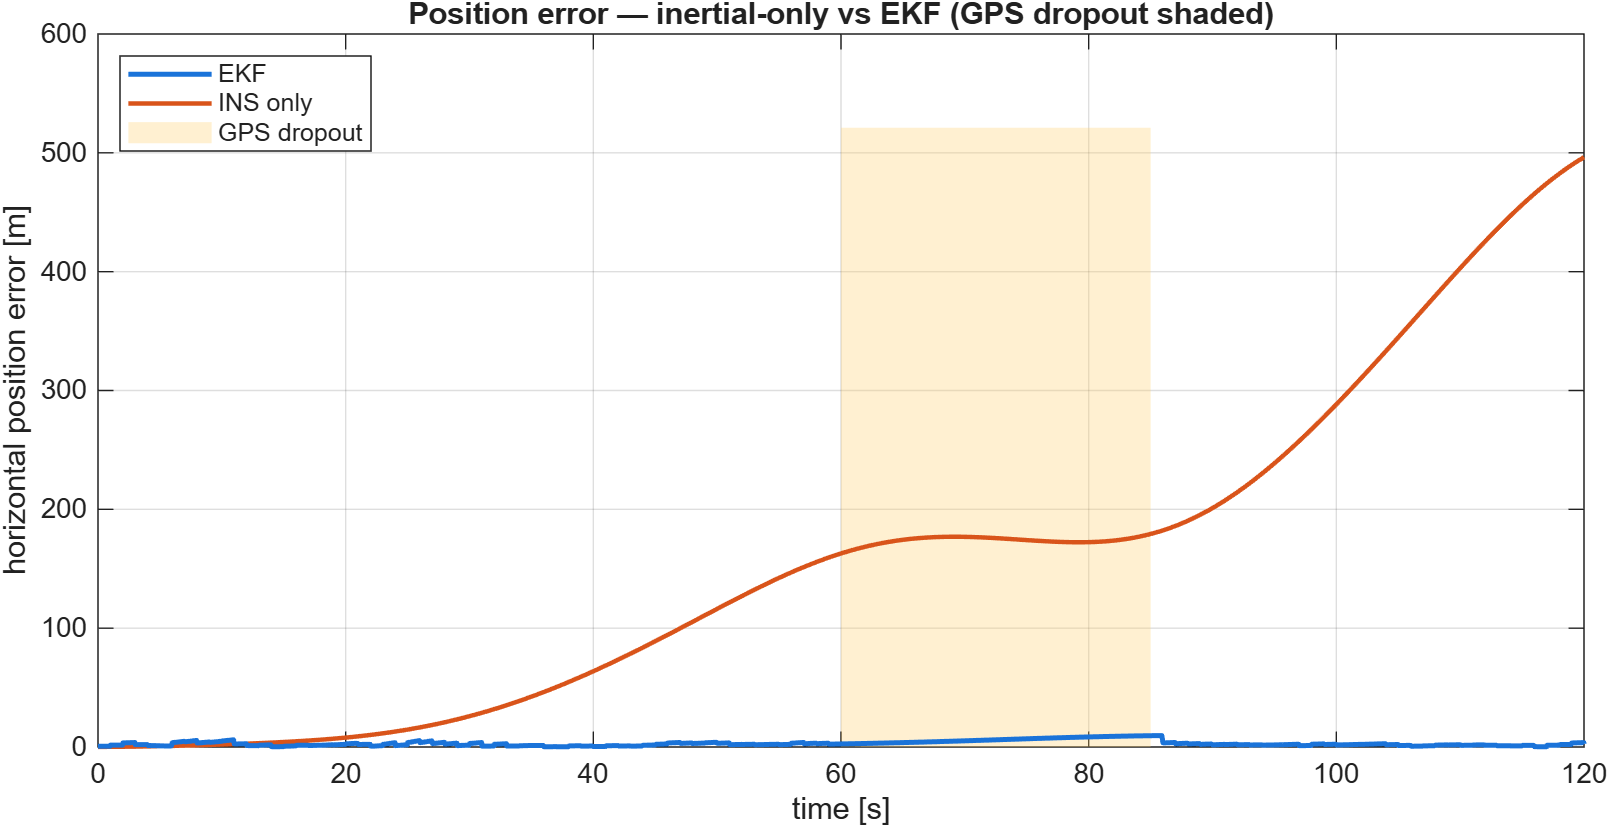
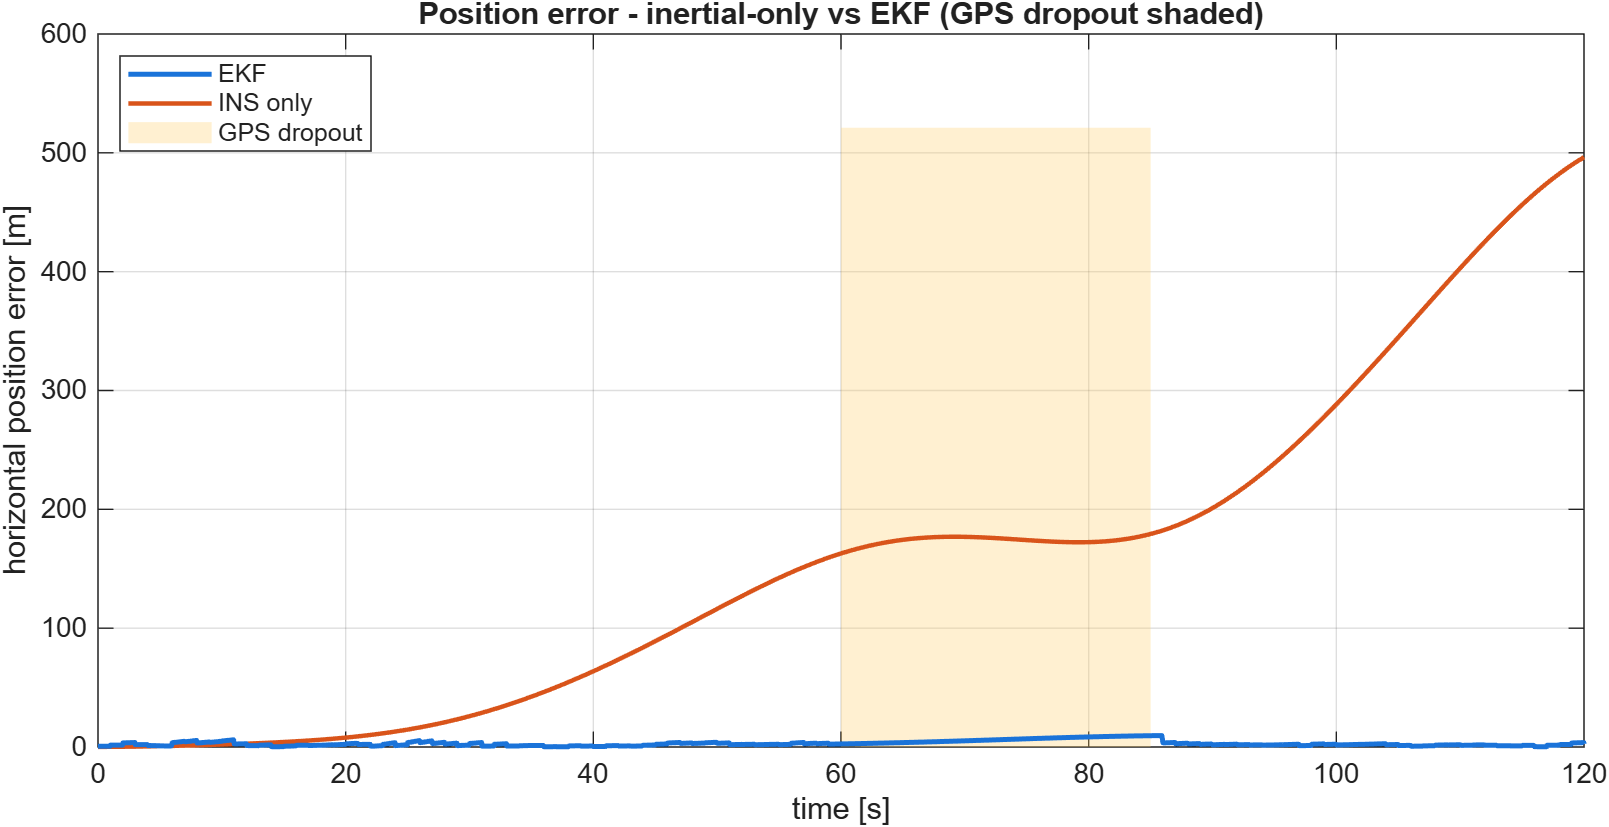
Clarify horizontal RMS relative to raw-GPS 2D scatter

Changed region(s): [[0.2486, 0.0, 0.808, 0.0302]]

diff --git a/README.md b/README.md
@@ -21,7 +21,7 @@ injected to demonstrate inertial coasting (dead reckoning).
 
 | Metric | Value |
 |---|---|
-| EKF horizontal RMS (GPS available, settled) | **2.50 m** (≈ GPS noise floor) |
+| EKF horizontal RMS (GPS available, settled) | **2.50 m** (below the ~3.5 m raw-GPS 2D scatter) |
 | EKF max error during 25 s GPS dropout | 9.5 m |
 | EKF error after re-acquisition | 2.6 m |
 | Estimated gyro bias | 0.510°/s (true 0.500°/s) |